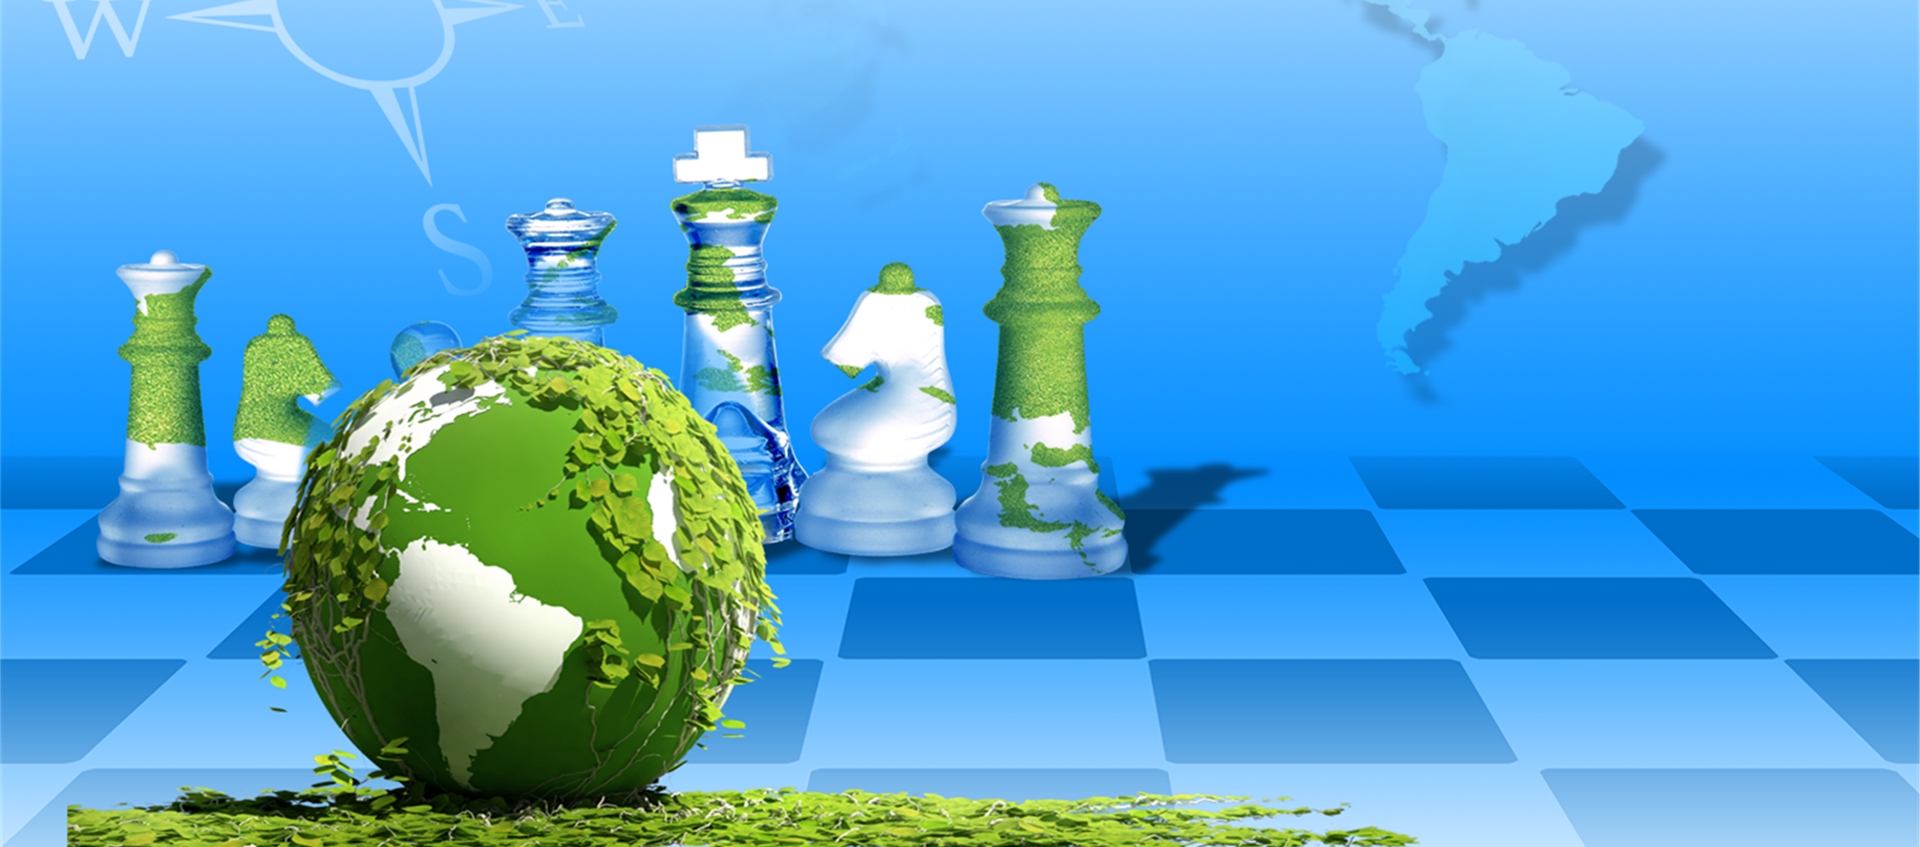
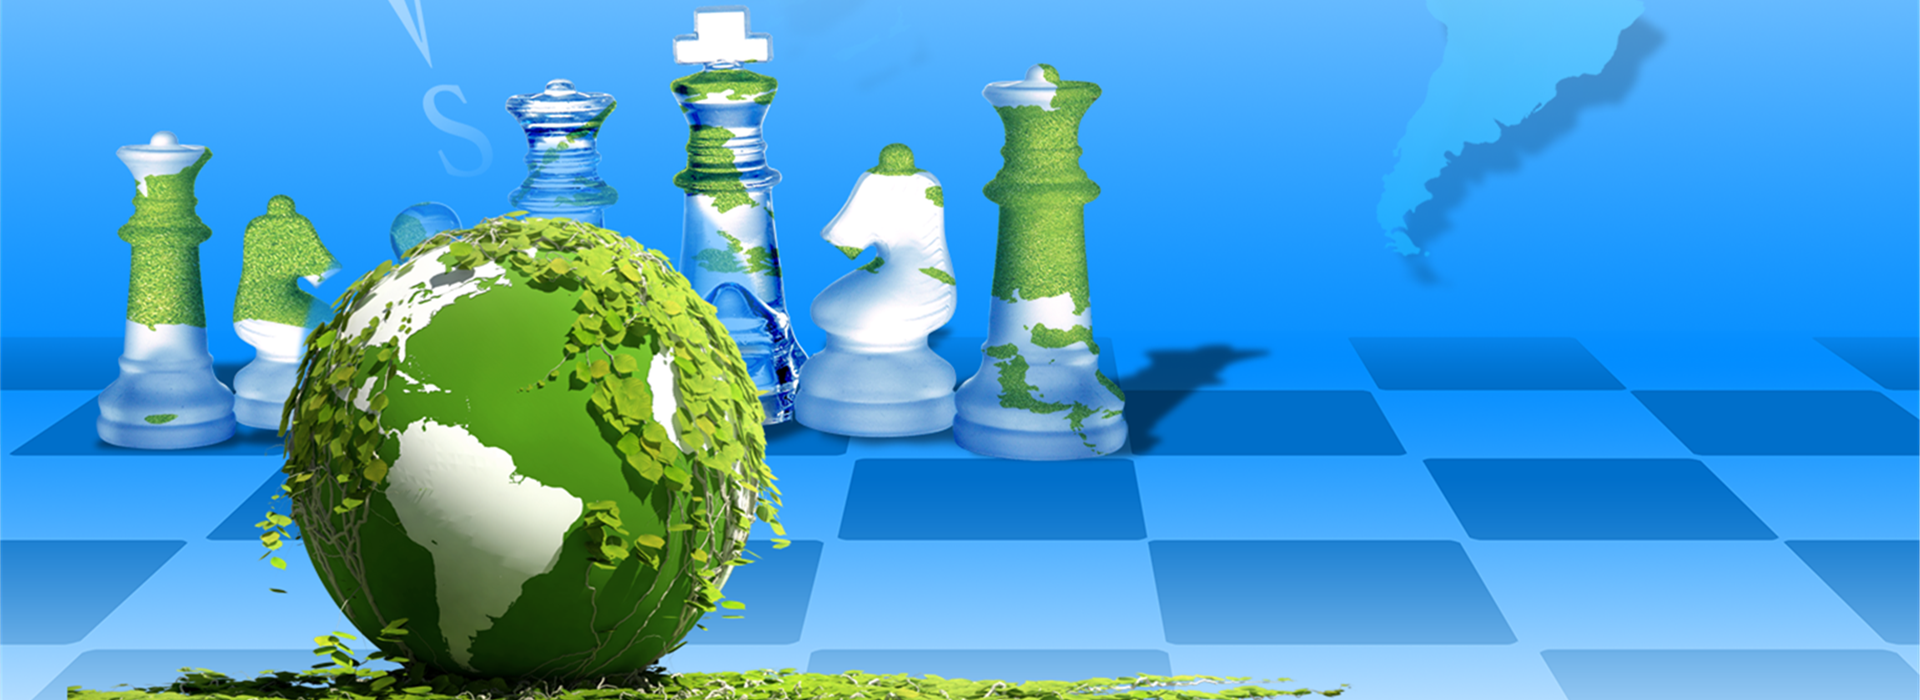
图片完成

diff --git a/static/css/home.css b/static/css/home.css
@@ -50,7 +50,7 @@ body {
 	opacity:0;
 	filter:alpha(opacity=0); 
 	background: #FFF url(../image/3.png) no-repeat center center;
-	background-size:1920px 700px;
+	background-size:1800px 700px;
 }
 #pic3 {
 	position: absolute;
@@ -63,7 +63,8 @@ body {
 	z-index:-10;
 	opacity:0;
 	filter:alpha(opacity=0); 
-	background: #FFF url(../image/h-enjoyevent-bg.jpg) no-repeat center center;
+	background: #FFF url(../image/4-4.jpg) no-repeat center center;
+	background-size:1800px 700px;
 }
 #pic4 {
 	position: absolute;
@@ -255,6 +256,9 @@ body {
 .current_pic .high-box .figure {
 	opacity: 1;
 	-webkit-transform: scale(1) rotate(0) translate3d(0,0,0);
+	-moz-transform: scale(1) rotate(0) translate3d(0,0,0);
+	-ms-transform: scale(1) rotate(0) translate3d(0,0,0);
+	transform: scale(1) rotate(0) translate3d(0,0,0);
 	-webkit-filter: blur(0);
 }
 .high-box .figure {
@@ -271,6 +275,88 @@ body {
 	position: absolute;
 	top: 70px;
 	left: 0;
+}
+
+.current_pic .high-title1 {
+	-webkit-transform: scale(1,1);
+	-moz-transform: scale(1,1);
+	-ms-transform: scale(1,1);
+	transform: scale(1,1);
+	-webkit-filter: blur(0);
+	-moz-filter: blur(0);
+	-ms-filter: blur(0);
+	filter: blur(0);
+	opacity: 1;
+}
+ .high-title1 {
+	-webkit-transform: scale(1.5,1.1);
+	-moz-transform: scale(1.5,1.1);
+	-ms-transform: scale(1.5,1.1);
+	transform: scale(1.5,1.1);
+	-webkit-filter: blur(3px);
+	-moz-filter: blur(3px);
+	-ms-filter: blur(3px);
+	filter: blur(3px);
+	opacity: 0;
+	-webkit-transition: all .8s .2s ease-in-out;
+	-moz-transition: all .8s .2s ease-in-out;
+	-ms-transition: all .8s .2s ease-in-out;
+	transition: all .8s .2s ease-in-out;
+}
+.high-title1 {
+	position: absolute;
+	top: 20px;
+	left: 0;
+	width: 100%;
+	text-align: center;
+}
+.current_pic .figure1 {
+	-webkit-transform: scale(1) rotate3d(0, 1, 0 , 0deg) translate3d(0,0,0);
+	-moz-transform: scale(1) rotate3d(0, 1, 0 , 0deg) translate3d(0,0,0);
+	-ms-transform: scale(1) rotate3d(0, 1, 0 , 0deg) translate3d(0,0,0);
+	transform: scale(1) rotate3d(0, 1, 0 , 0deg) translate3d(0,0,0);
+	opacity: 1;
+}
+.figure1 {
+	-webkit-transform: scale(0.5) rotate3d(0, 1, 0 ,-90deg) translate3d(50%,0,0);
+	-moz-transform: scale(0.5) rotate3d(0, 1, 0 ,-90deg) translate3d(50%,0,0);
+	-ms-transform: scale(0.5) rotate3d(0, 1, 0 ,-90deg) translate3d(50%,0,0);
+	transform: scale(0.5) rotate3d(0, 1, 0 ,-90deg) translate3d(50%,0,0);
+	-webkit-transition: all 1.5s 1s cubic-bezier(0.770, 0.000, 0.175, 1.000);
+	-moz-transition: all 1.5s 1s cubic-bezier(0.770, 0.000, 0.175, 1.000);
+	-ms-transition: all 1.5s 1s cubic-bezier(0.770, 0.000, 0.175, 1.000);
+	transition: all 1.5s 1s cubic-bezier(0.770, 0.000, 0.175, 1.000);
+	-webkit-transform-origin: -50% 50%;
+	-moz-transform-origin: -50% 50%;
+	-ms-transform-origin: -50% 50%;
+	transform-origin: -50% 50%;
+	opacity: 0;
+}
+.figure1 .screen {
+	width: 600px;
+	height: 335px;
+	overflow: hidden;
+	position: absolute;
+	top: 33px;
+	left: 40px;
+	background: #000;
+}
+.figure1 {
+	width: 700px;
+	height: 380px;
+	overflow: hidden;
+	position: absolute;
+	top: 280px;
+	left: 50%;
+	margin-left: -350px;
+}
+.screen img {
+	position: relative;
+	left:0px;
+	-webkit-transition: left 3s 2s;
+}
+.current_pic .screen img {
+	left:-600px;
 }
 #tip_top{
 	width:10px;

diff --git a/static/js/pic.js b/static/js/pic.js
@@ -52,7 +52,7 @@ function fadetop(id){
 	$("#pic"+focus_fade).stop().animate({opacity: '0'},1000);
 	focus_fade = id;
 	$("#pic"+focus_fade).stop().animate({opacity: '1'},1000);
-	//clearTimeout(interval);  //关闭定时器 
+	
 	for (var i = 1; i <= 4; i++) {
 		if(i == id){
 			$("#pic"+i).attr("class","current_pic");
@@ -60,10 +60,11 @@ function fadetop(id){
 			$("#pic"+i).attr("class","");
 		}
 	}
-	//run(); 
+	clearTimeout(interval);  //关闭定时器 
+	run(); 
 }
 $(document).ready(function() {
-  //	run();             //加载页面时启动定时器  
+  	run();             //加载页面时启动定时器  
 });
 function run() {  
      interval = setInterval(fadetime, "5000");  
@@ -74,11 +75,18 @@ function fadetime() {
 		focus_fade = 1;
 	}
 	$("#pic"+focus_fade).stop().animate({opacity: '1'},1000);
-		for (var i = 1; i <= 5; i++) {
+		for (var i = 1; i <= 4; i++) {
 		if(i == focus_fade){
 			$("#fading_"+i).attr("class","fading_top");
 		}else{
 			$("#fading_"+i).attr("class","");
+		}
+	}
+	for (var i = 1; i <= 4; i++) {
+		if(i == focus_fade){
+			$("#pic"+i).attr("class","current_pic");
+		}else{
+			$("#pic"+i).attr("class","");
 		}
 	}
 	clearTimeout(interval);  //关闭定时器 

diff --git a/application/views/main_nav.php b/application/views/main_nav.php
@@ -56,7 +56,7 @@
                     <em class="e3"></em>
                 </div>
                 <div class="title1">
-                	<h2><img src="<?php echo base_url('static/image/p2.png');?>" width="746"/></h2>
+                	<h2><img src="<?php echo base_url('static/image/p2.png');?>" width="600"/></h2>
                 </div>
             </div>
             <div id="pic2">
@@ -65,11 +65,20 @@
                 	<h3><img src="<?php echo base_url('static/image/3-2.png');?>" width="466"/></h3>
                 </div>
             </div>
-            <div id="pic3"></div>
+            <div id="pic3">
+            	<div class="high-title1">
+            		<h2><img src="<?php echo base_url('static/image/4-3.png');?>" width="466"/></h2>
+                </div>
+                <div class="figure1">
+                	<div class="screen">
+                    	<img src="<?php echo base_url('static/image/4-1.png');?>" width="1200"/>
+                    </div>
+                </div>
+            </div>
             <div id="pic4">
             	<div class="high-box">
                 	<div class="figure">
-                    	<img src="<?php echo base_url('static/image/5-1.png');?>" width="600"/>
+                    	<img src="<?php echo base_url('static/image/5-1.png');?>" width="500"/>
                     </div>
                 </div>
                 <div class="high-title">
